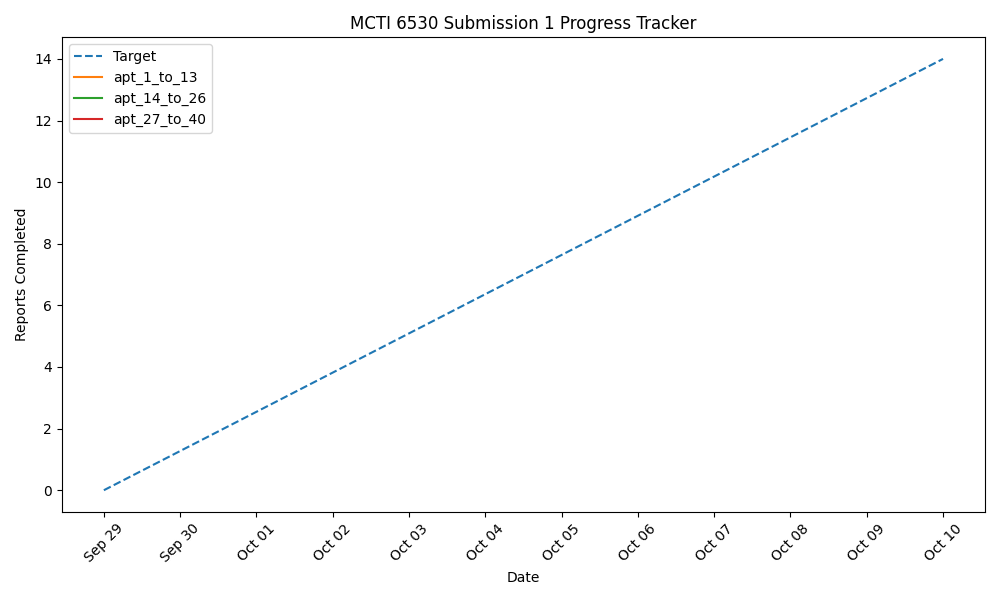
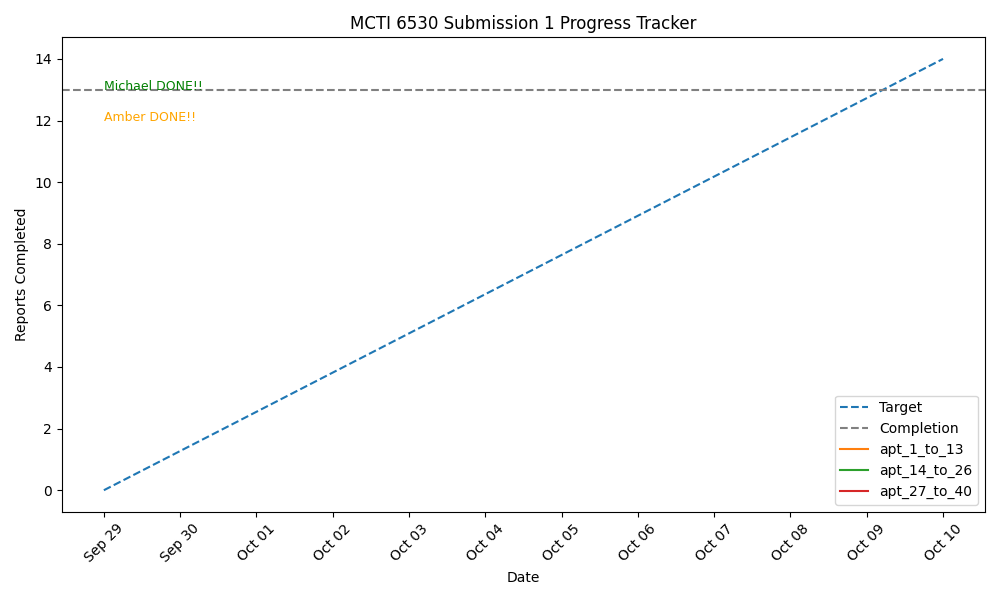
update for day 10

Changed region(s): [[0.837, 0.66, 0.992, 0.84], [0.062, 0.06, 0.217, 0.21]]

diff --git a/tmp_progress_tracking/4dx_graph_6530.py b/tmp_progress_tracking/4dx_graph_6530.py
@@ -65,8 +65,14 @@ def plot_progress(day):
     plt.figure(figsize=(ASPECT_RATIO_10_INCH_WIDE, ASPECT_RATIO_6_INCH_TALL))
     plt.plot(date_range, target, label=TARGET, linestyle=DASHED_LINE_STYLE)
 
+    plt.axhline(y=13, color="gray", linestyle=DASHED_LINE_STYLE, label="Completion")
+ 
     for person, progress in progress_data.items():
         plt.plot(days_passed, progress, label=person)
+
+    # Add annotations for "Michael done" and "Amber done"
+    plt.text(days_passed[-1], 13, "Michael DONE!!", fontsize=9, color="green")
+    plt.text(days_passed[-1], 12, "Amber DONE!!", fontsize=9, color="orange")
 
     # Formatting the date axis
     plt.gca().xaxis.set_major_formatter(
@@ -92,40 +98,40 @@ update_progress(0, 0, 0, day=0)  # Day 1 update
 plot_progress(day=0)
 
 # Sept 30th
-# update_progress(4, 3, 1, day=1)  # Day 2 update
-# plot_progress(day=1)
+update_progress(0, 0, 0, day=1)  # Day 2 update
+plot_progress(day=1)
 
 # Oct 1st
-# update_progress(8, 6, 2, day=2)  # Day 3 update
-# plot_progress(day=2)
+update_progress(0, 0, 0, day=2)  # Day 3 update
+plot_progress(day=2)
 
 # Oct 2nd
-# update_progress(12, 9, 4, day=3)  # Day 4 update
-# plot_progress(day=3)
+update_progress(0, 0, 0, day=3)  # Day 4 update
+plot_progress(day=3)
 
 # Oct 3rd
-# update_progress(14, 12, 6, day=4)  # Day 5 update
-# plot_progress(day=4)
+update_progress(0, 0, 0, day=4)  # Day 5 update
+plot_progress(day=4)
 
 # Oct 4th
-# update_progress(14, 14, 8, day=5)  # Day 6 update
-# plot_progress(day=5)
+update_progress(0, 0, 0, day=5)  # Day 6 update
+plot_progress(day=5)
 
 # Oct 5th
-# update_progress(14, 14, 10, day=6)  # Day 7 update
-# plot_progress(day=6)
+update_progress(0, 0, 0, day=6)  # Day 7 update
+plot_progress(day=6)
 
 # Oct 6th
-# update_progress(14, 14, 12, day=7)  # Day 8 update
-# plot_progress(day=7)
+update_progress(0, 0, 1, day=7)  # Day 8 update
+plot_progress(day=7)
 
 # Oct 7th
-# update_progress(14, 14, 14, day=8)  # Day 9 update
-# plot_progress(day=8)
+update_progress(0, 13, 4, day=8)  # Day 9 update
+plot_progress(day=8)
 
 # Oct 8th
-# update_progress(14, 14, 14, day=9)  # Day 10 update
-# plot_progress(day=9)
+update_progress(13, 13, 6, day=9)  # Day 10 update
+plot_progress(day=9)
 
 # Oct 9th
 # update_progress(14, 14, 14, day=10)  # Day 11 update
